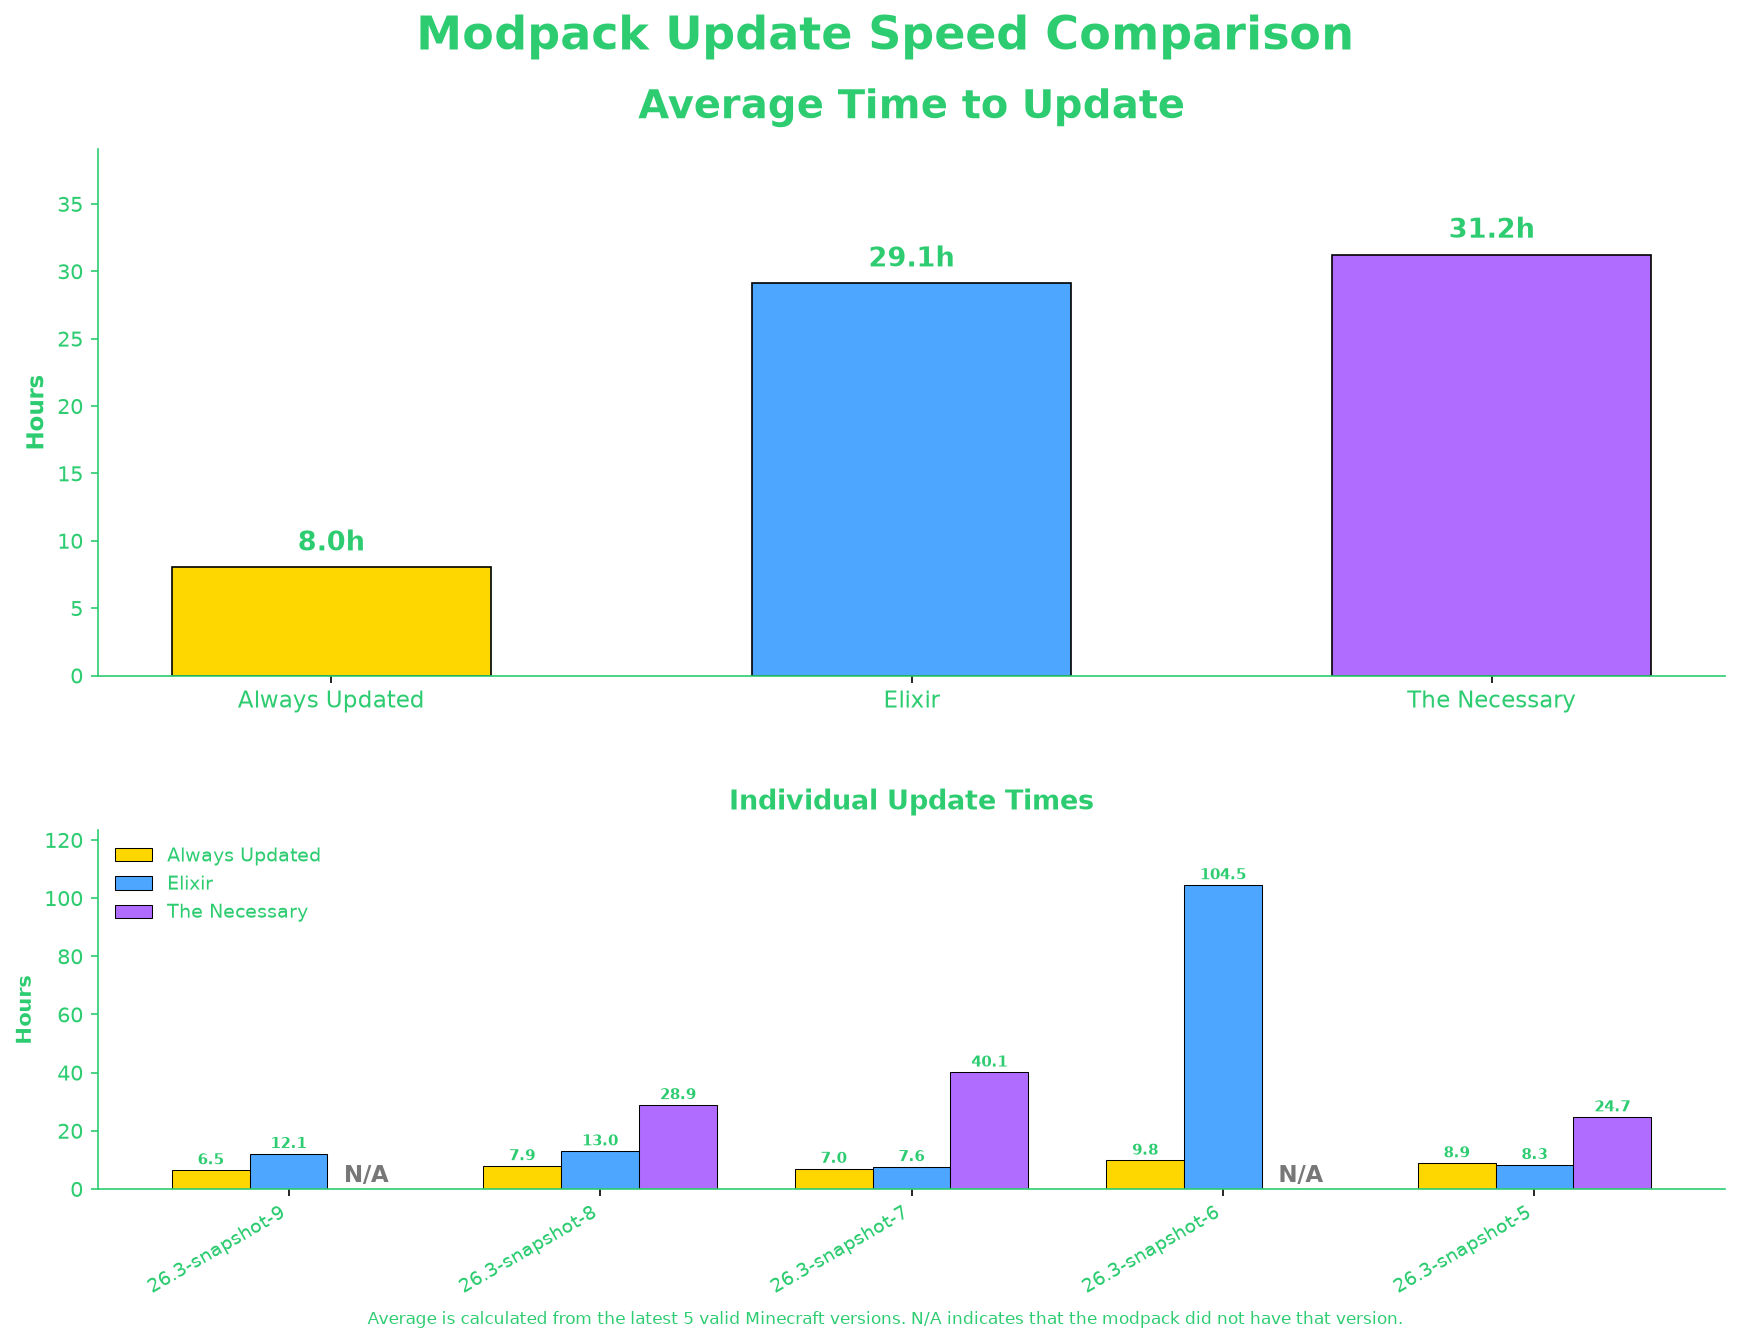
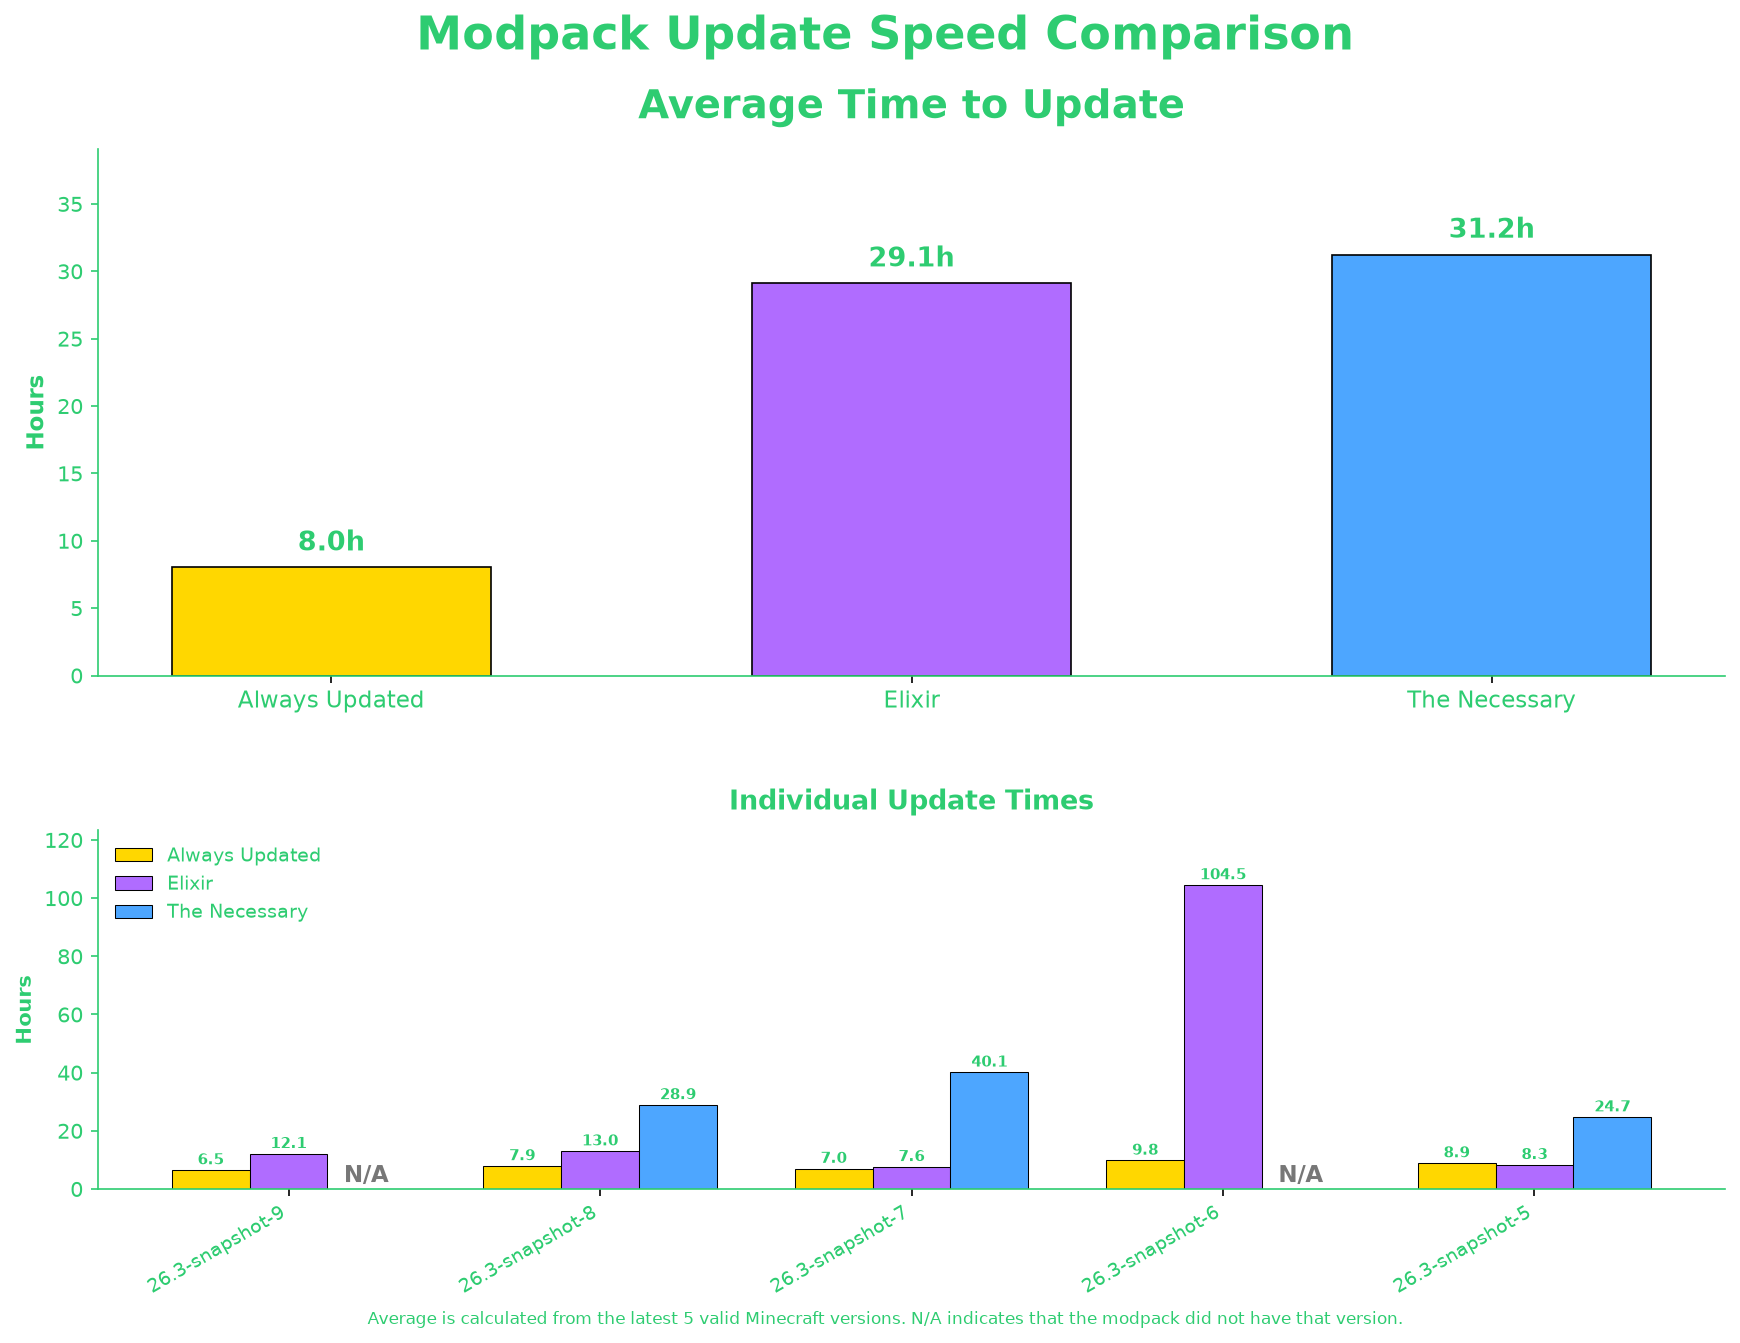
graph

diff --git a/generate_graph.py b/generate_graph.py
@@ -443,8 +443,8 @@ def main():
 
     COLORS = {
         "Always Updated": "#FFD700",
-        "Wmfgn1eN": "#4DA6FF",
-        "Gvp9bbxY": "#B06CFF",
+        "Wmfgn1eN": "#B06CFF",
+        "Gvp9bbxY": "#4DA6FF",
     }
 
     # ---------------------------------------------------------
